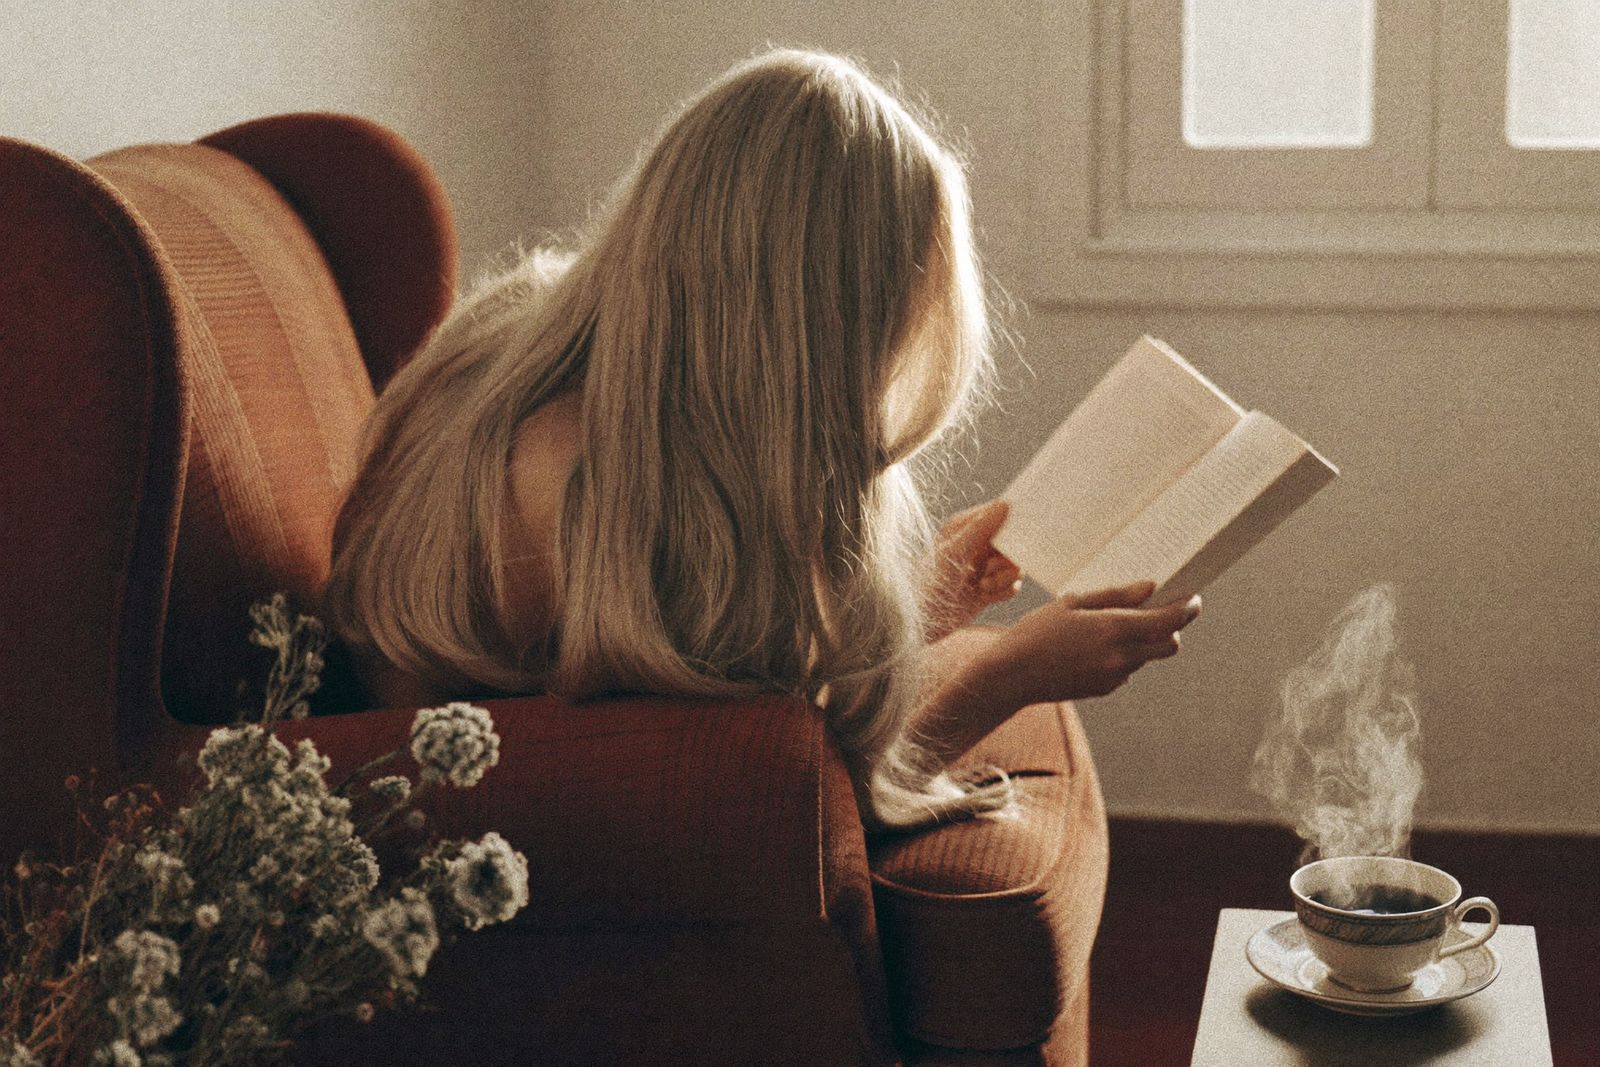
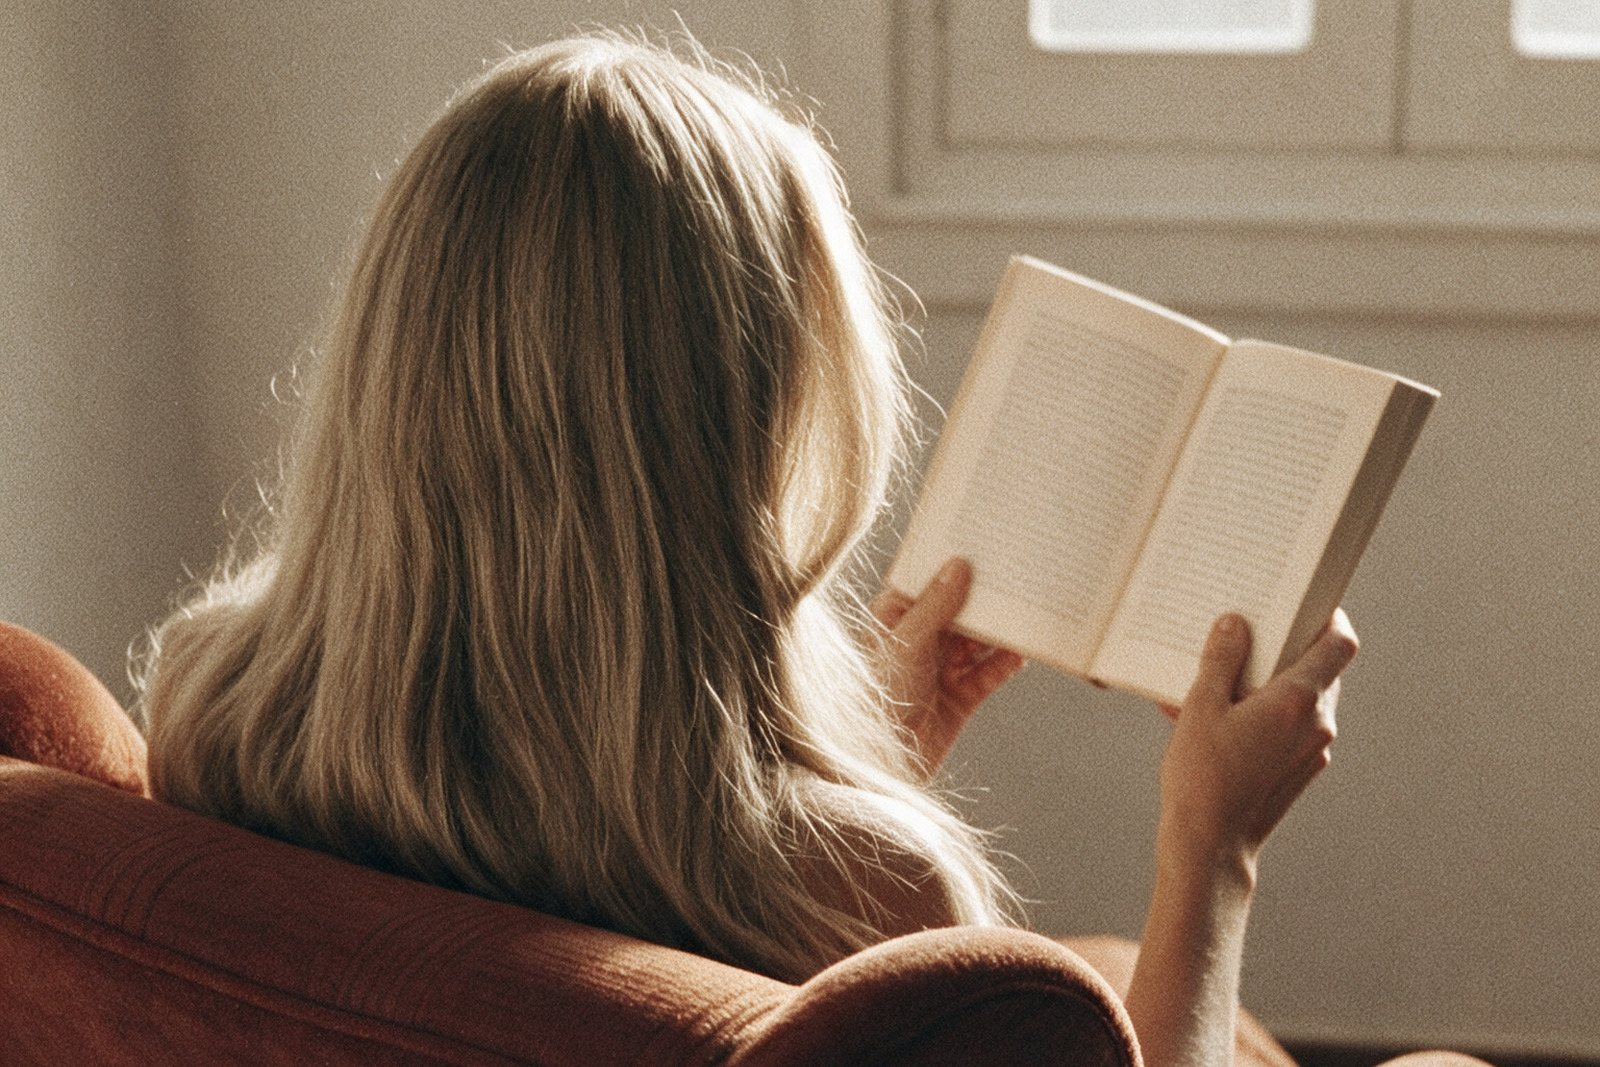
가을 섹션 이미지 교체: 앉은 자세 가독성 수정
기존 사진은 안락의자에 기댄 자세가 앉은 건지 누운 건지 읽히지 않아
alt 텍스트("안락의자에서 책을 읽는")와도 어긋났다. 원본의 톤·그레인·
광원을 유지한 채 자세만 또렷하게 재생성(Seedream 5 Pro 편집).

- season-autumn-2.jpg / .webp 교체 (1600x1067 유지)
- 캐시 버스터 v2 -> v3

Claude-Session: https://claude.ai/code/session_01UiF9CMW8cPnZfaxuFJPXfm

diff --git a/index.html b/index.html
@@ -85,8 +85,8 @@
     <div class="season" data-season="autumn">
       <figure class="season__figure">
         <picture>
-          <source srcset="assets/images/season-autumn-2.webp?v=2" type="image/webp">
-          <img src="assets/images/season-autumn-2.jpg?v=2" alt="앰버빛 창가 안락의자에서 책을 읽는 긴 웨이브 머리 여성">
+          <source srcset="assets/images/season-autumn-2.webp?v=3" type="image/webp">
+          <img src="assets/images/season-autumn-2.jpg?v=3" alt="앰버빛 창가 안락의자에서 책을 읽는 긴 웨이브 머리 여성">
         </picture>
       </figure>
       <div class="season__copy">
